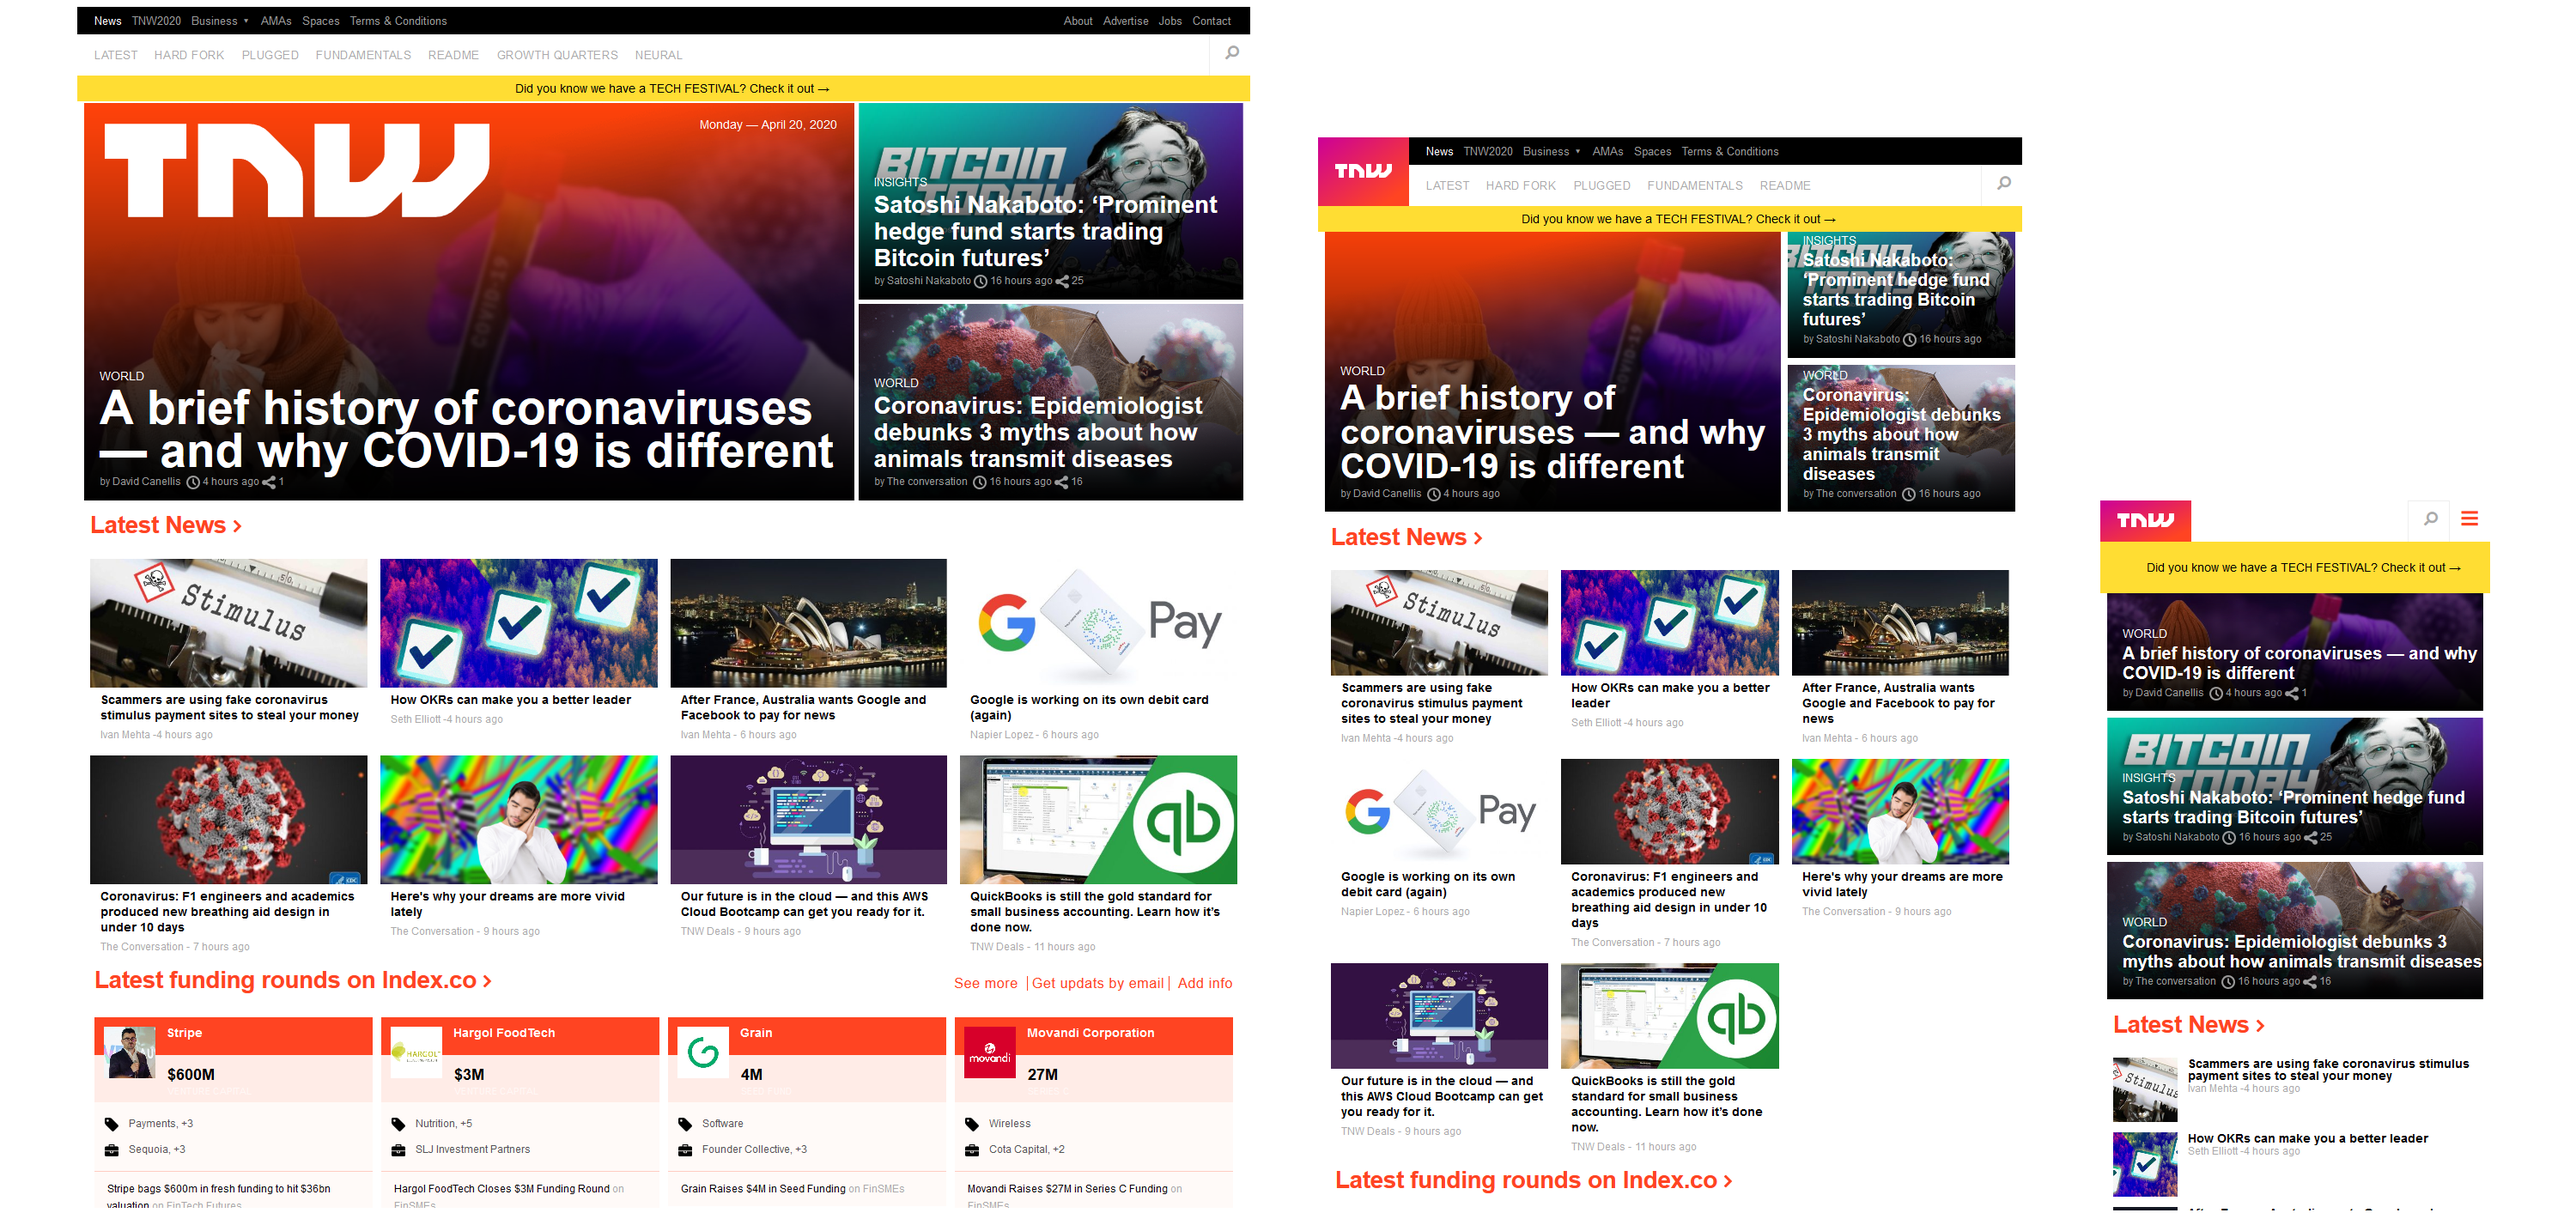
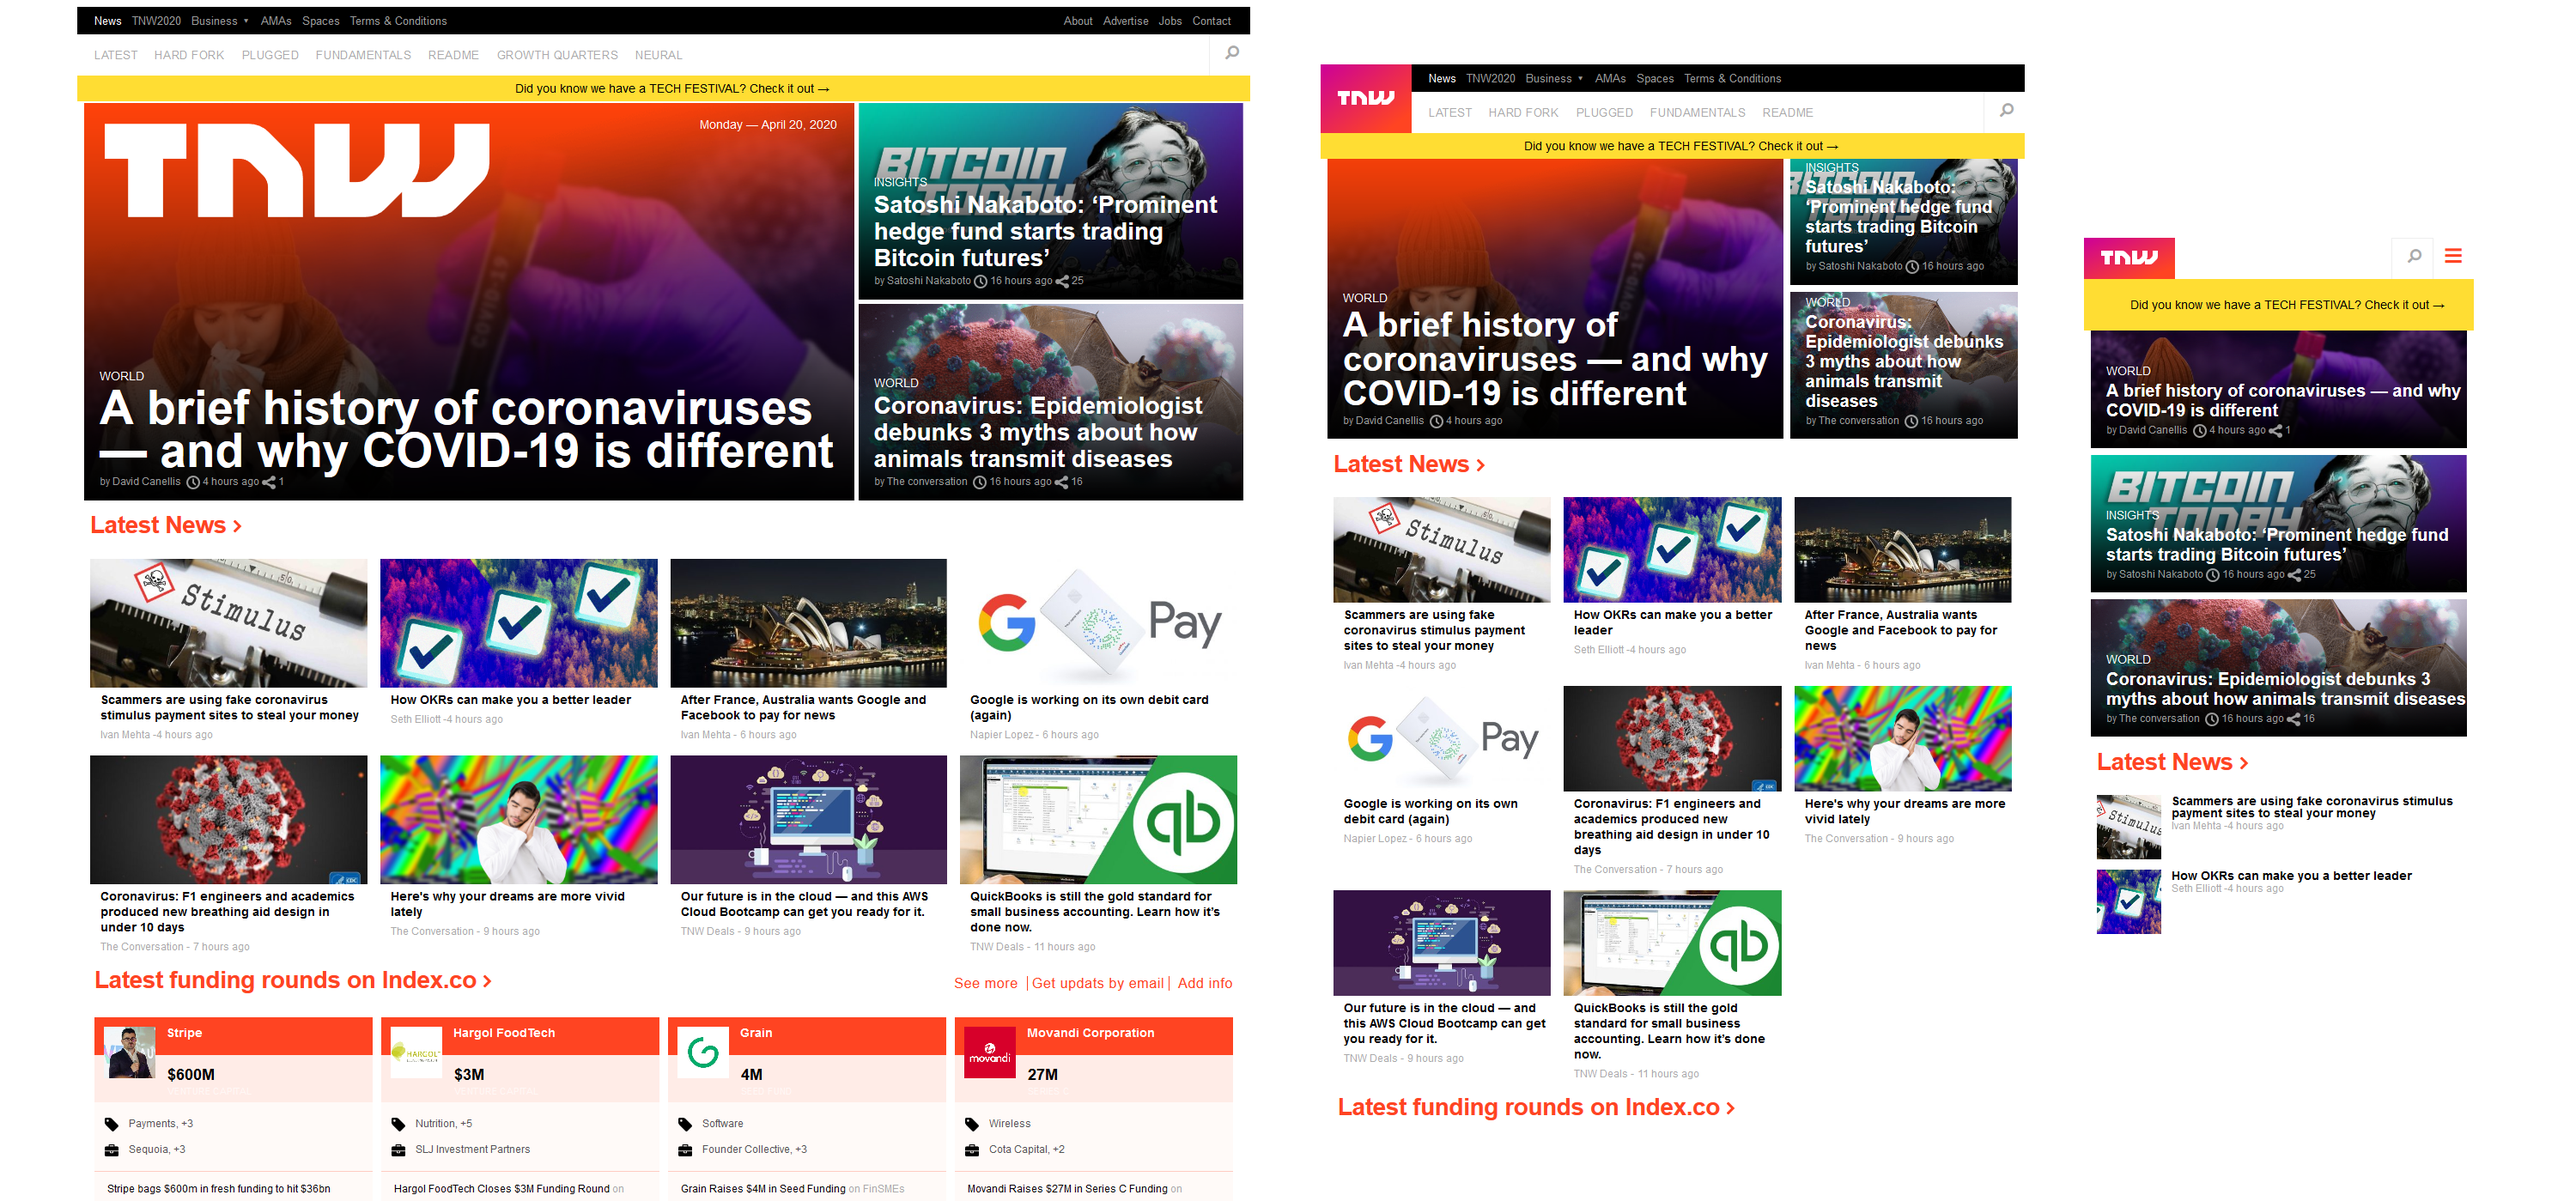
fix picture links in funding round section

diff --git a/index.html b/index.html
@@ -168,7 +168,7 @@
         </div>
         <div class="funding_rounds">
           <div>
-            <img src="assets/images/latest_f1.jpg" alt="Funding rounds picture">
+            <img src="https://img-cdn.tnwcdn.com/image?url=https%3A%2F%2Fpbs.twimg.com%2Fprofile_images%2F889190923644669957%2Fl9aC3xuD.jpg&signature=eee0edb8a82a249aebd30b7450211272" alt="Funding rounds picture">
             <a href="#">
               <h3>Stripe</h3>
               <p class="capital">$600M <br><span> VENTURE CAPITAL </span></p>
@@ -180,7 +180,7 @@
             <p class="summary"> Stripe bags $600m in fresh funding to hit $36bn valuation <span><a href="#">on FinTech Futures</a></span></p>
           </div>
           <div>
-            <img src="assets/images/latest_f2.jpg" alt="Funding rounds picture">
+            <img src="https://img-cdn.tnwcdn.com/image?url=https%3A%2F%2Fpbs.twimg.com%2Fprofile_images%2F1220100388139028481%2FM9J-y47L.jpg&signature=9337fc62470d0651905926836cd146ac" alt="Funding rounds picture">
             <a href="#">
               <h3>Hargol FoodTech</h3>
               <p class="capital">$3M <br><span> VENTURE CAPITAL </span></p>
@@ -192,7 +192,7 @@
             <p class="summary"> Hargol FoodTech Closes $3M Funding Round  <span><a href="#">on FinSMEs</a></span></p>
           </div>
           <div>
-            <img src="assets/images/latest_f3.jpg" alt="Funding rounds picture">
+            <img src="https://img-cdn.tnwcdn.com/image?url=https%3A%2F%2Fpbs.twimg.com%2Fprofile_images%2F1138164876201738240%2FFu43NJNR.jpg&signature=1ce90f3c34559961ff0f65b4939fb6c6" alt="Funding rounds picture">
             <a href="#">
               <h3>Grain</h3>
               <p class="capital">4M <br><span> SEED FUND </span></p>
@@ -204,7 +204,7 @@
             <p class="summary"> Grain Raises $4M in Seed Funding <span><a href="#">on FinSMEs</a></span></p>
           </div>
           <div>
-            <img src="assets/images/latest_f4.jpg" alt="Funding rounds picture">
+            <img src="https://img-cdn.tnwcdn.com/image?url=https%3A%2F%2Fpbs.twimg.com%2Fprofile_images%2F902383573713354752%2FFyy1XEmf.jpg&signature=ed13ccfb1a5e2d92d7735799c61d3731" alt="Funding rounds picture">
             <a href="#">
               <h3>Movandi Corporation</h3>
               <p class="capital">27M <br><span> SERIES C </span></p>
